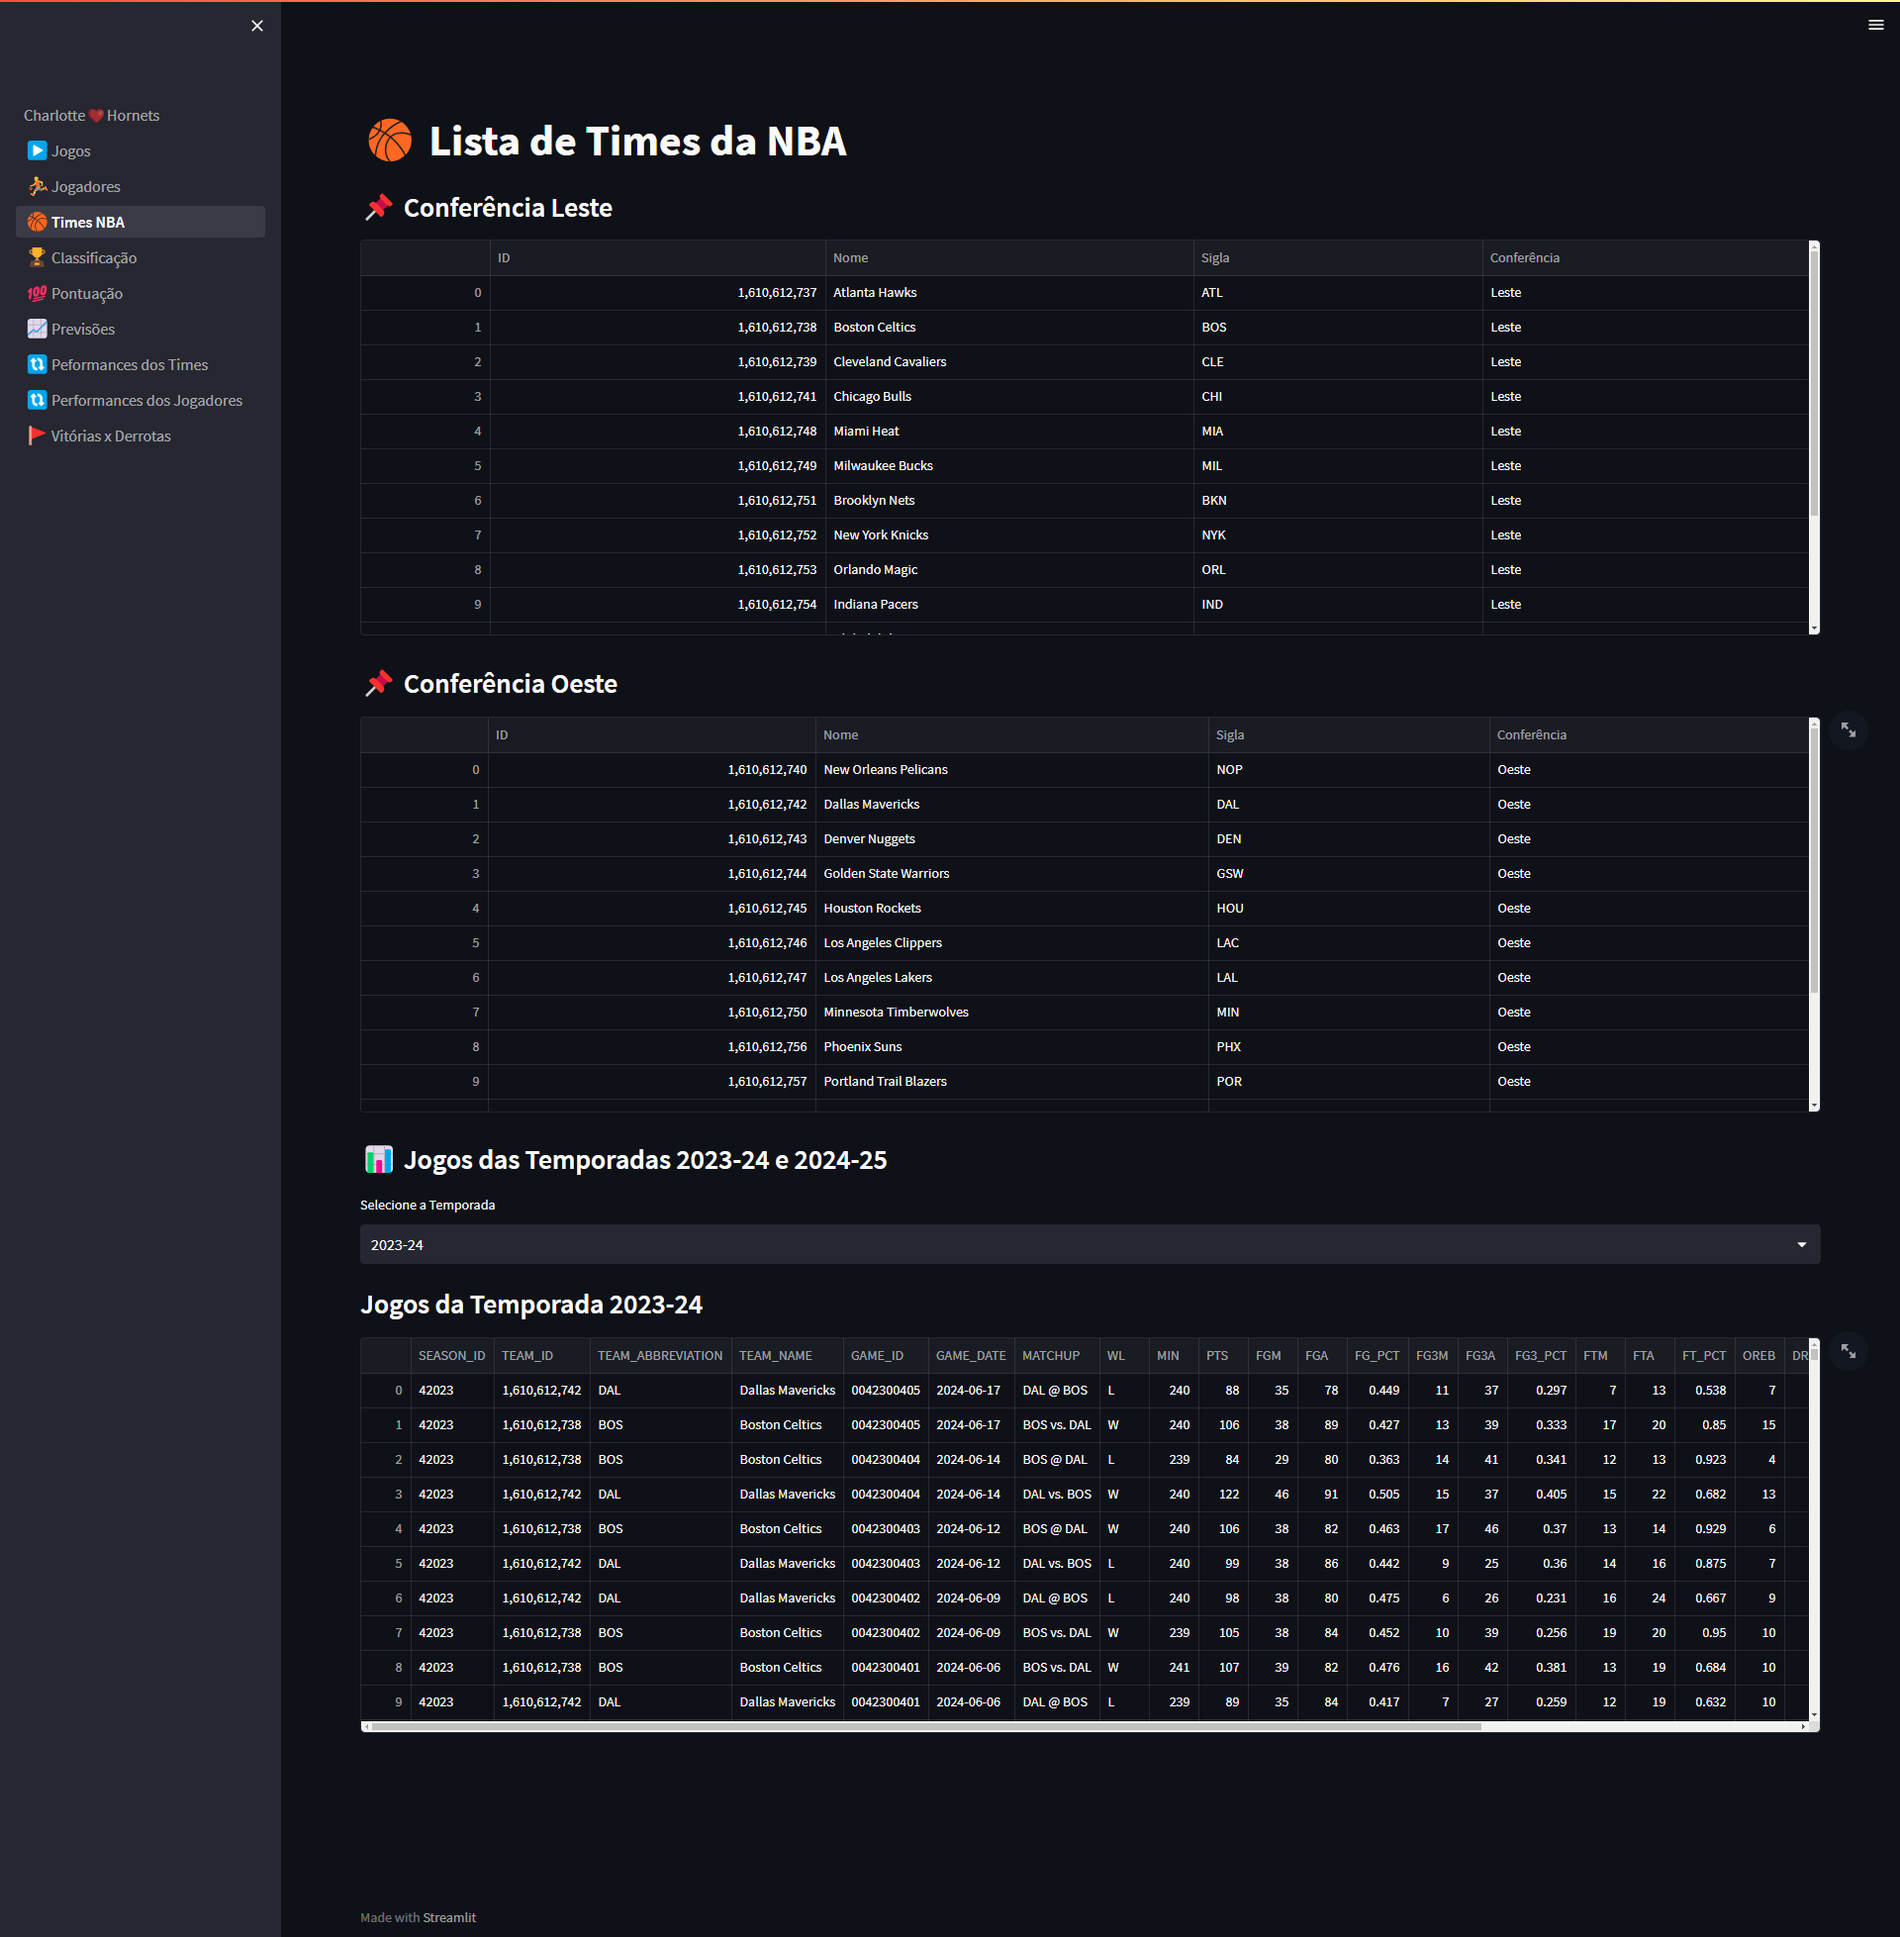
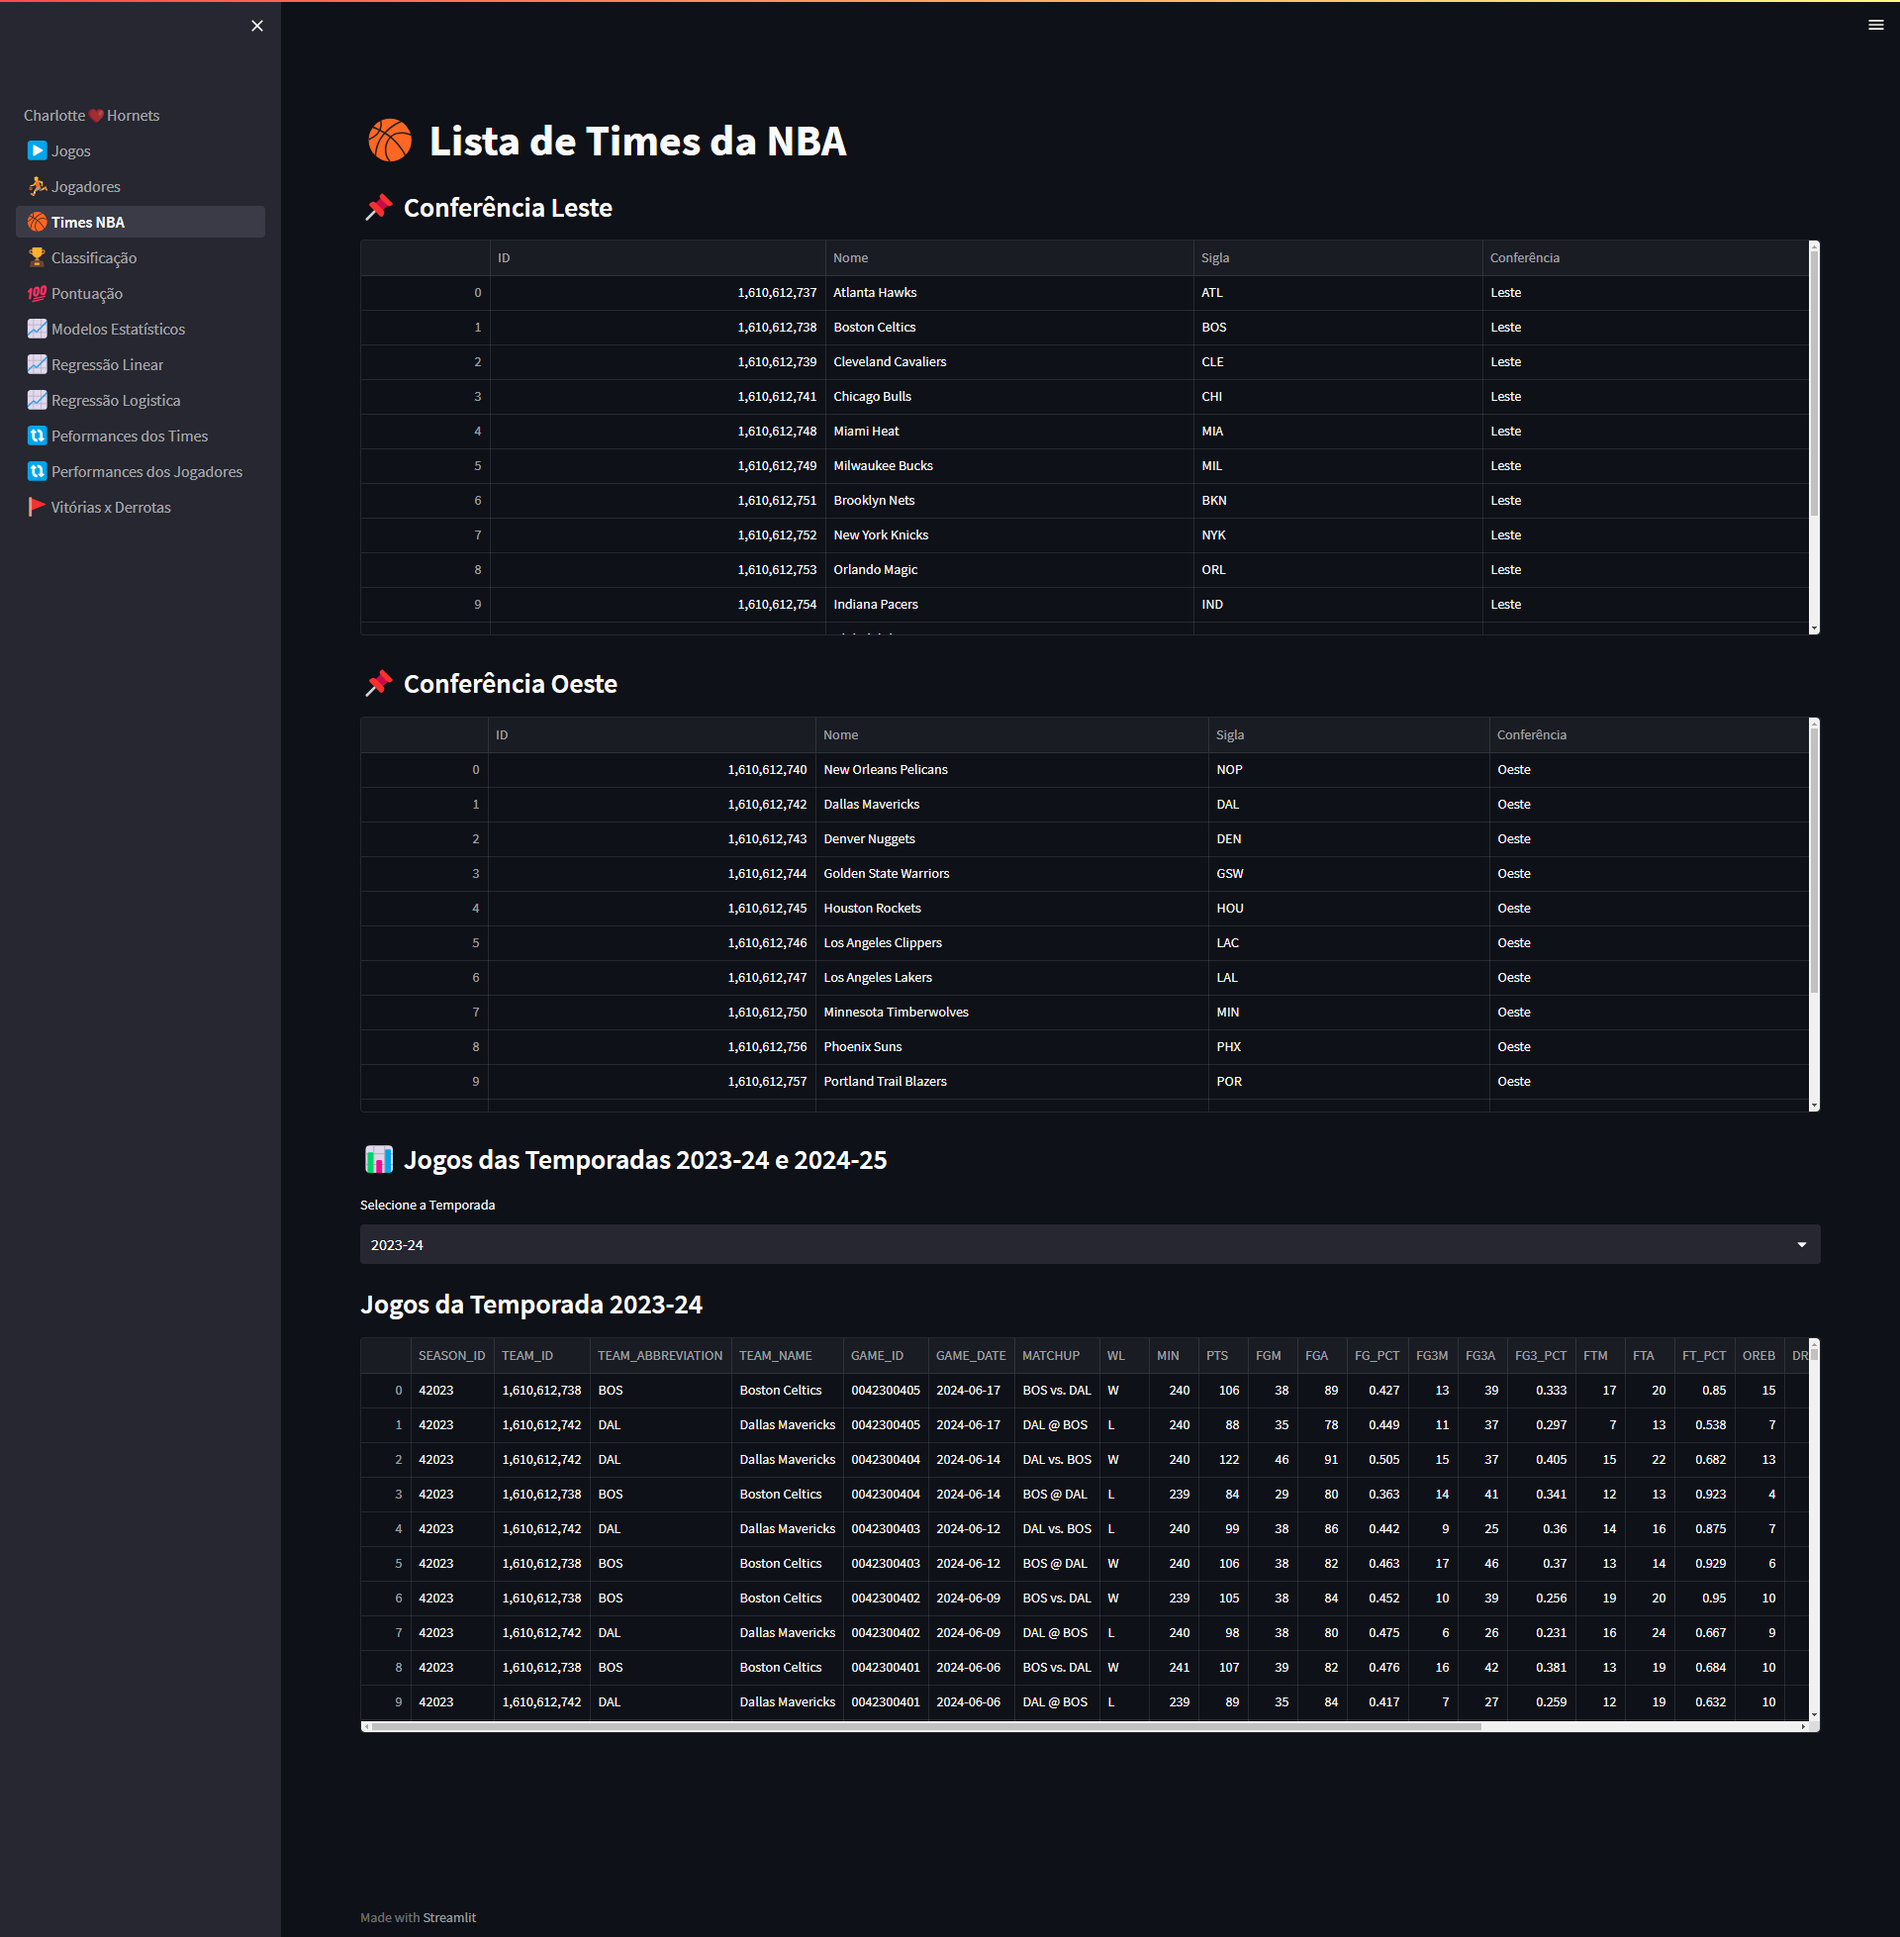
add: Modelos de Previsão

Changed region(s): [[0.0, 0.1559, 0.125, 0.2494], [0.5312, 0.7169, 0.5938, 0.8104], [0.375, 0.7169, 0.4375, 0.8416]]

diff --git a/README.md b/README.md
@@ -79,7 +79,7 @@ Isso abrirá a interface da aplicação no navegador.
   ![💯 Pontuação](img/pontuacao.png)
   ![📈 Modelos Estatísticos](img/modelosestatisticos.png)
   ![📈 Regressão Linear](img/regressaolinear.png)
-  ![📈 Regressão Logistica](img/regressaologistica.png)
+  ![📈 Regressão Logística](img/regressaologistica.png)
   ![🔃 Peformances dos Times](img/performancestimes.png)
   ![🔃 Performances dos Jogadores](img/performancesjogadores.png)
   ![🚩 Vitórias x Derrotas](img/vitoriasxderrotas.png)
